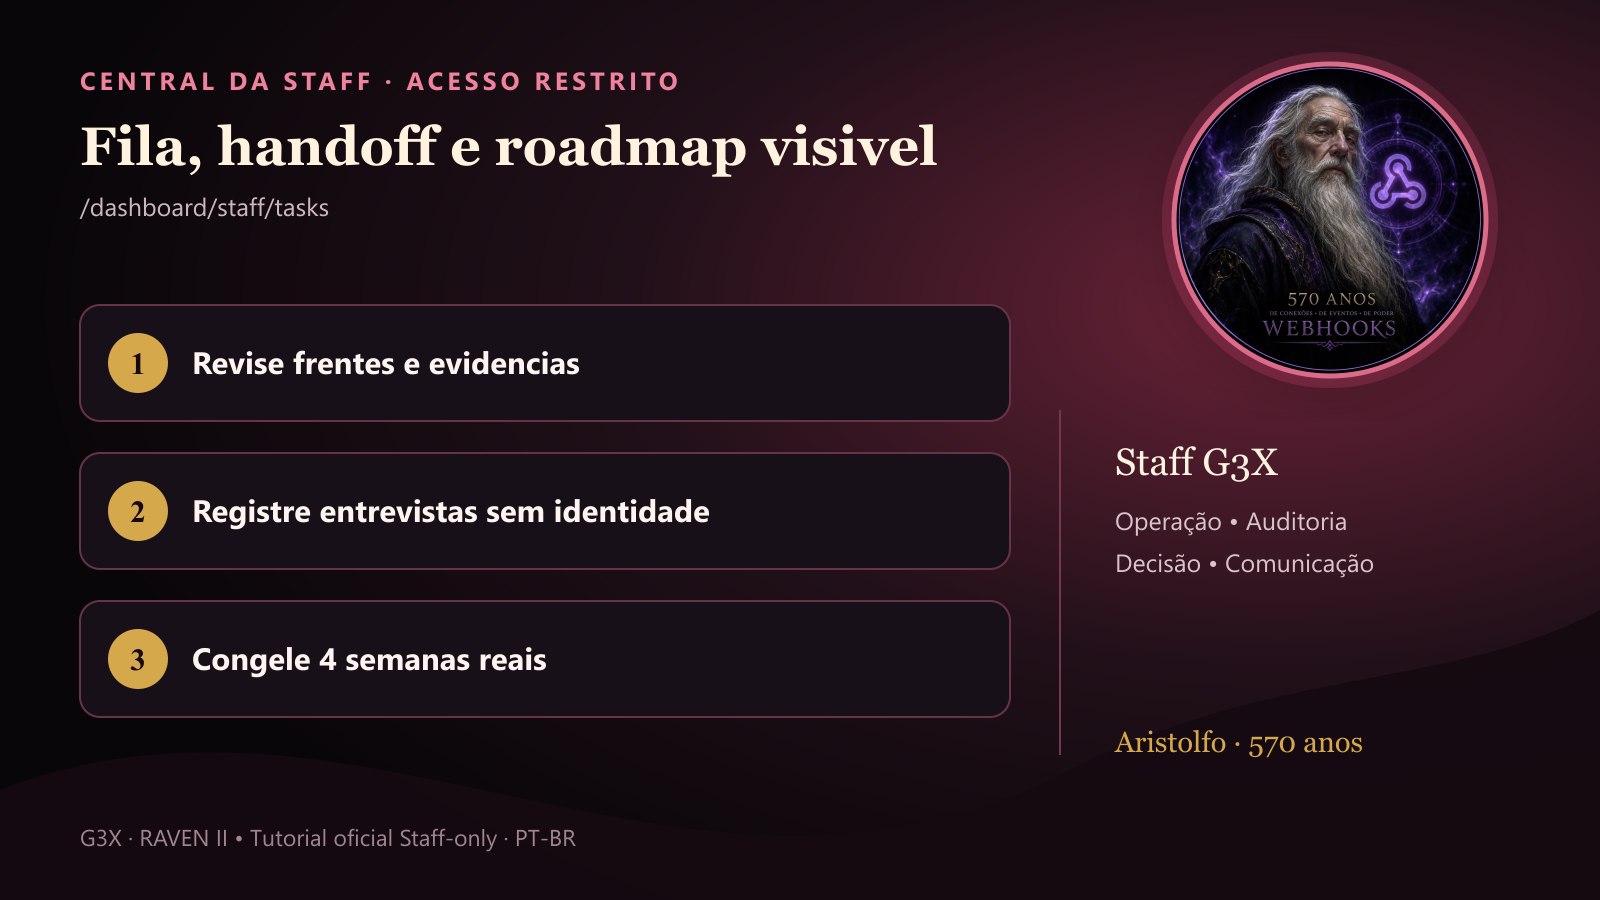
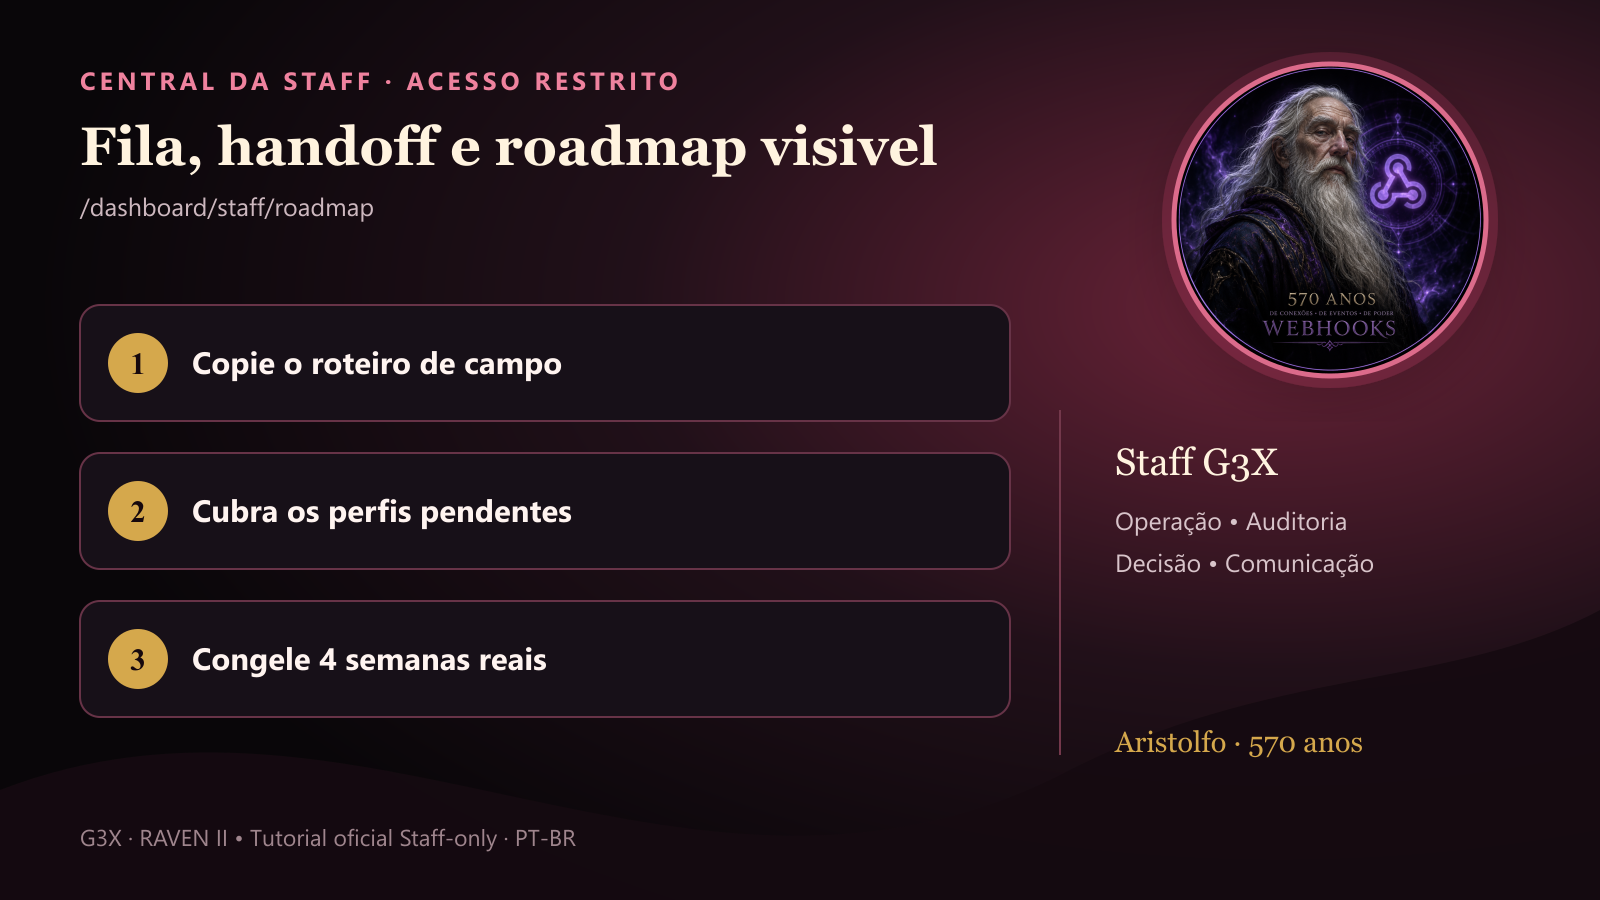
feat: prepare Front 0 field campaign

Changed region(s): [[0.125, 0.3733, 0.375, 0.4356], [0.125, 0.56, 0.4375, 0.5911], [0.1562, 0.2178, 0.25, 0.2489]]

diff --git a/apps/web/src/app/dashboard/staff/roadmap/page.tsx b/apps/web/src/app/dashboard/staff/roadmap/page.tsx
@@ -51,6 +51,24 @@ const absenceOptions: Array<[ProductValidationAbsenceVisibility, string]> = [
 const labelFor = (profile: ProductValidationInterviewProfile) =>
   profiles.find(([value]) => value === profile)?.[1] ?? profile;
 
+const fieldQuestions = [
+  "Hoje, o que mais faz a Staff precisar cobrar você manualmente?",
+  "Quais canais você realmente acompanha para compromissos da guilda?",
+  "Como uma ausência deveria aparecer: pública, somente Staff, anônima ou dependendo do motivo?",
+  "Responder RSVP no ERP evitaria alguma cobrança real? Qual etapa mudaria?",
+  "Qual é a menor mudança que pouparia tempo ou evitaria confusão nesta rotina?",
+];
+
+const fieldWeeks = [
+  { start: "2026-07-27", end: "2026-08-03" },
+  { start: "2026-08-03", end: "2026-08-10" },
+  { start: "2026-08-10", end: "2026-08-17" },
+  { start: "2026-08-17", end: "2026-08-24" },
+];
+
+const dateLabel = (value: string) =>
+  new Date(`${value}T12:00:00.000Z`).toLocaleDateString("pt-BR", { timeZone: "UTC" });
+
 export default function StaffRoadmapPage() {
   const workspace = useProductValidation();
   const createInterview = useCreateProductValidationInterview();
@@ -66,6 +84,46 @@ export default function StaffRoadmapPage() {
   const [staffMinutes, setStaffMinutes] = useState("");
   const [weekNote, setWeekNote] = useState("");
   const gate = workspace.data?.gate;
+  const capturedWeekStarts = new Set(
+    workspace.data?.weeks.map((week) => week.weekStart.slice(0, 10)) ?? [],
+  );
+  const now = Date.now();
+  const missingStaffProfiles = (gate?.requiredStaffProfiles ?? []).filter(
+    (required) => !gate?.staffProfilesCovered.includes(required),
+  );
+  const missingPlayerProfiles = ([
+    "PLAYER_VETERAN",
+    "PLAYER_NEW",
+    "PLAYER_ACTIVE",
+    "PLAYER_LOW_ACTIVITY",
+  ] as ProductValidationInterviewProfile[]).filter(
+    (required) => !gate?.playerProfilesCovered.includes(required),
+  );
+  const nextInterviewProfile = missingStaffProfiles[0]
+    ?? missingPlayerProfiles[0]
+    ?? ((gate?.playerInterviewCount ?? 0) < 5 ? "PLAYER_ACTIVE" : null);
+
+  const copyFieldGuide = async () => {
+    const guide = [
+      "Frente 0 · roteiro de entrevista anonimizada",
+      `Próximo perfil sugerido: ${nextInterviewProfile ? labelFor(nextInterviewProfile) : "cobertura mínima completa"}`,
+      "",
+      ...fieldQuestions.map((question, index) => `${index + 1}. ${question}`),
+      "",
+      "Registro: guarde somente perfil, canais, visibilidade de ausência, impacto do RSVP e uma síntese operacional.",
+      "Não registre nome, nick, trechos de DM ou conteúdo privado de voz.",
+    ].join("\n");
+    try {
+      await navigator.clipboard.writeText(guide);
+      notifyToast({ title: "Roteiro de campo copiado.", tone: "success" });
+    } catch {
+      notifyToast({
+        title: "Nao foi possivel copiar o roteiro.",
+        description: "Revise a permissao da area de transferencia e tente novamente.",
+        tone: "error",
+      });
+    }
+  };
 
   const submitInterview = () => {
     if (!interviewedAt || summary.trim().length < 10 || selectedChannels.length === 0) return;
@@ -147,6 +205,66 @@ export default function StaffRoadmapPage() {
             <p className="text-sm text-muted-foreground">
               RSVP reduz uma cobrança manual real: <strong>{gate?.rsvpValidated ? "confirmado por ao menos uma entrevista" : "ainda não confirmado"}</strong>. O ERP não guarda nome do entrevistado nem conteúdo privado de voz/DM.
             </p>
+          </CardContent>
+        </Card>
+
+        <Card>
+          <CardHeader><CardTitle>Plano de campo · quem ouvir e quando medir</CardTitle></CardHeader>
+          <CardContent className="space-y-5">
+            <div className="grid gap-4 lg:grid-cols-[1.1fr_1.9fr]">
+              <div className="space-y-3 rounded border border-white/10 p-4">
+                <div className="flex flex-wrap items-center justify-between gap-2">
+                  <p className="font-semibold">Próxima entrevista</p>
+                  <Badge tone={nextInterviewProfile ? "gold" : "green"}>
+                    {nextInterviewProfile ? labelFor(nextInterviewProfile) : "Cobertura mínima completa"}
+                  </Badge>
+                </div>
+                <p className="text-sm text-muted-foreground">
+                  Faltam {missingStaffProfiles.length} perfis Staff e {missingPlayerProfiles.length} perfis de player.
+                  {nextInterviewProfile ? " Depois de cobrir os quatro perfis de player, complete pelo menos cinco entrevistas." : " O gate ainda depende das semanas e da validação real do RSVP."}
+                </p>
+                <Button onClick={copyFieldGuide}>Copiar roteiro de entrevista</Button>
+              </div>
+
+              <div className="rounded border border-white/10 p-4">
+                <p className="font-semibold">Perguntas canônicas</p>
+                <ol className="mt-3 space-y-2 text-sm text-muted-foreground">
+                  {fieldQuestions.map((question, index) => (
+                    <li key={question}><strong className="text-foreground">{index + 1}.</strong> {question}</li>
+                  ))}
+                </ol>
+                <p className="mt-3 text-xs text-muted-foreground">
+                  Faça a conversa onde a pessoa se sentir confortável. No ERP entra somente a síntese sem identidade.
+                </p>
+              </div>
+            </div>
+
+            <div>
+              <div className="flex flex-wrap items-center justify-between gap-2">
+                <p className="font-semibold">Janela oficial das quatro semanas</p>
+                <span className="text-xs text-muted-foreground">Segunda a segunda · America/Sao_Paulo</span>
+              </div>
+              <div className="mt-3 grid gap-3 md:grid-cols-2 xl:grid-cols-4">
+                {fieldWeeks.map((week, index) => {
+                  const captured = capturedWeekStarts.has(week.start);
+                  const started = now >= new Date(`${week.start}T00:00:00.000-03:00`).getTime();
+                  const ended = now >= new Date(`${week.end}T00:00:00.000-03:00`).getTime();
+                  const status = captured ? "CONGELADA" : ended ? "PRONTA" : started ? "COLETANDO" : "AGUARDANDO";
+                  return (
+                    <div key={week.start} className="rounded border border-white/10 p-3">
+                      <div className="flex items-center justify-between gap-2">
+                        <span className="text-sm font-semibold">Semana {index + 1}</span>
+                        <Badge tone={captured ? "green" : ended ? "gold" : "blue"}>{status}</Badge>
+                      </div>
+                      <p className="mt-2 text-sm">{dateLabel(week.start)} → {dateLabel(week.end)}</p>
+                      {ended && !captured ? (
+                        <Button className="mt-3" onClick={() => setWeekStart(week.start)}>Usar no formulário</Button>
+                      ) : null}
+                    </div>
+                  );
+                })}
+              </div>
+            </div>
           </CardContent>
         </Card>
 

diff --git a/scripts/staff-forum-content.js b/scripts/staff-forum-content.js
@@ -394,16 +394,18 @@ O painel usa o check-in mais recente e 14 dias de acoes auditadas para mostrar a
 Responsabilidade nao concede permissao, alerta nao escala sozinho e nenhum check-in vira avaliacao disciplinar.`,
   },
   {
-    slug: 'staff-fila-handoff-roadmap', title: '24 · Fila, handoff e roadmap visivel', tag: 'routine', route: '/dashboard/staff/tasks',
-    visual: ['Revise frentes e evidencias', 'Registre entrevistas sem identidade', 'Congele 4 semanas reais'],
+    slug: 'staff-fila-handoff-roadmap', title: '24 · Fila, handoff e roadmap visivel', tag: 'routine', route: '/dashboard/staff/roadmap',
+    visual: ['Copie o roteiro de campo', 'Cubra os perfis pendentes', 'Congele 4 semanas reais'],
     body: `## Trabalho visivel sobrevive ao logout do lider
 Em [Fila Staff](${route('/dashboard/staff/tasks')}) registre area, prioridade, dono, substituto, prazo, estado e link direto para o objeto. Sugestoes do briefing, pauta e sinais nao criam nada sozinhas: revise e confirme a conversao.
 
 No handoff, escreva contexto final e proximo passo antes de transferir o dono. A trilha fica auditada e a chave da origem impede duplicar a mesma sugestao.
 
-Use o [Roadmap visivel](${route('/dashboard/staff/roadmap')}) para validar frentes, estado e evidencias. A Frente 0 so libera decisao depois dos tres perfis Staff, pelo menos cinco entrevistas cobrindo veterano/novato/ativo/baixa atividade, quatro semanas consecutivas congeladas e confirmacao de que RSVP reduz cobranca manual real.
+Use o [Roadmap visivel](${route('/dashboard/staff/roadmap')}) para validar frentes, estado e evidencias. O plano de campo mostra o proximo perfil pendente, oferece um roteiro canonico copiavel e organiza a medicao de 27/07 a 24/08 em quatro semanas de segunda a segunda. Quando uma semana encerrar, use o atalho **Usar no formulario** e declare somente presenca esperada, quando conhecida, e minutos de cobranca.
 
-Entrevista nao guarda nome nem conteudo privado de voz/DM: registre apenas perfil, canais acompanhados, visibilidade aceitavel de ausencia e sintese operacional. Na semana encerrada iniciada na segunda-feira, o ERP calcula eventos, presenca, no-shows, recruits com atividade e tarefas sem substituto; informe presenca esperada, quando conhecida, e minutos de cobranca. IMPLEMENTADO significa codigo local validado; producao e Centrais live continuam pendentes ate o protocolo completo.`,
+A Frente 0 so libera decisao depois dos tres perfis Staff, pelo menos cinco entrevistas cobrindo veterano/novato/ativo/baixa atividade, quatro semanas consecutivas congeladas e confirmacao de que RSVP reduz cobranca manual real.
+
+Entrevista nao guarda nome nem conteudo privado de voz/DM: registre apenas perfil, canais acompanhados, visibilidade aceitavel de ausencia e sintese operacional. Na semana encerrada iniciada na segunda-feira, o ERP calcula eventos, presenca, no-shows, recruits com atividade e tarefas sem substituto. Evidencia real, sem fanfic de dashboard.`,
   },
   {
     slug: 'staff-cobertura-areas', title: '25 · Areas, plantao e cobertura', tag: 'routine', route: '/dashboard/staff/coverage',

diff --git a/docs/discord-staff-update-2026-07-21-roadmap-field-campaign.md b/docs/discord-staff-update-2026-07-21-roadmap-field-campaign.md
@@ -1,0 +1,11 @@
+# Frente 0 pronta para coleta real
+
+**PT-BR**
+
+- O roadmap Staff agora aponta qual perfil deve ser entrevistado em seguida e mostra quantos perfis Staff e player ainda faltam.
+- Um clique copia as cinco perguntas canonicas da entrevista, junto das regras para nao registrar nome, nick, DM ou conteudo privado de voz.
+- A janela oficial de medicao ficou organizada em quatro semanas, de 27/07 a 24/08, sempre de segunda a segunda.
+- Depois que uma semana encerrar, `Usar no formulario` preenche a data correta para a Staff congelar as metricas automaticas e declarar apenas presenca esperada e minutos de cobranca.
+- O gate continua honesto: entrevista e baseline so contam quando forem registrados com evidencia real. O ERP nao inventa validacao para deixar card verde.
+
+**Aristolfo, 570 anos de webhook:** o roteiro esta pronto; agora so falta entrevistar humanos, a dependencia mais instavel do sistema.

diff --git a/WIKI.md b/WIKI.md
@@ -112,7 +112,7 @@ Fonte detalhada: `docs/DISCORD_WEBHOOK_VOICE.md`.
 - A tela Staff `/dashboard/staff/discord-templates` consome `GET /operations/staff/discord-templates` e mostra preview real sanitizado de webhooks para anuncios, leiloes, interesses, drops, presenca, requests e review Staff. O payload inclui `username`, `avatar_url`, `content`, `embeds` e `allowed_mentions`, nunca a URL do webhook. Templates player-facing exibem PT-BR e EN; Staff-only fica PT-BR.
 - A tela Staff `/dashboard/staff/discord-webhooks` consome `GET /operations/staff/discord-webhooks` e lista entregas persistidas em `DiscordWebhookDelivery`: alvo logico, canal, action, target, status, tentativas, erro resumido e payload sanitizado. `POST /operations/staff/discord-webhooks/:deliveryId/retry` reenvia apenas entregas `FAILED` e `retryable`, buscando a URL pelo `webhookKey` no servidor sem expor segredo.
 - O forum Discord `📚・central-do-player` fica na categoria `1431340101052530829` e possui 20 tutoriais oficiais de player em PT-BR/EN, imagens 1600x900, rotas clicaveis e respostas abertas; players respondem nas threads, enquanto a criacao de novos posts fica com Staff/bots administrativos. O conteudo canonico fica em `scripts/player-forum-content.js`; `npm.cmd run discord:player-forum:assets` regenera as imagens e `npm.cmd run discord:player-forum` cria ou sincroniza forum, tags e posts sem duplicar. O publicador usa `DISCORD_BOT_TOKEN` e `DISCORD_GUILD_ID`, limita a operacao ao forum nomeado dentro da categoria configurada e nao remove canais ou posts extras.
-- O forum Discord Staff-only `🛡️・central-da-staff` fica na categoria `1528829674166423552` e possui 30 tutoriais internos em PT-BR, imagens 1600x900, 11 tags, indice clicavel e threads para duvidas. `@everyone` e bloqueado explicitamente, e o cargo de `DISCORD_STAFF_ROLE_ID` recebe acesso. O conteudo canonico fica em `scripts/staff-forum-content.js`; `npm.cmd run discord:staff-forum:assets` regenera imagens e `npm.cmd run discord:staff-forum` cria ou sincroniza forum, tags, permissoes e posts sem duplicar nem remover conteudo extra.
+- O forum Discord Staff-only `🛡️・central-da-staff` fica na categoria `1528829674166423552` e possui 30 tutoriais internos em PT-BR, imagens 1600x900, 12 tags, indice clicavel e threads para duvidas. `@everyone` e bloqueado explicitamente, e o cargo de `DISCORD_STAFF_ROLE_ID` recebe acesso. O conteudo canonico fica em `scripts/staff-forum-content.js`; `npm.cmd run discord:staff-forum:assets` regenera imagens e `npm.cmd run discord:staff-forum` cria ou sincroniza forum, tags, permissoes e posts sem duplicar nem remover conteudo extra.
 - O protocolo Codex exige classificar o impacto de toda implementacao ou alteracao de fluxo como player, Staff, ambos ou sem impacto de tutorial. Fluxo visivel alterado deve atualizar o conteudo canonico e os assets da Central correspondente no mesmo trabalho; o `--dry-run` ocorre antes do commit e a sincronizacao live somente depois da verificacao em producao, antes do changelog final.
 - Nunca documentar URLs completas de webhook.
 
@@ -218,7 +218,7 @@ Automacao ativa:
 - Pulso voluntario usa `/dashboard/pulse` e `/dashboard/staff/pulse` sobre `/guild-pulse`. `GuildPulseResponse` guarda cinco notas sem `playerId`; `GuildPulseParticipation` guarda apenas recibo `SUBMITTED/SKIPPED` separado e sem chave para resposta. API Staff bloqueia medias e textos abaixo de `minGroupSize` (padrao 5, minimo 3) e nunca retorna score individual. Texto aberto opcional nasce pendente, exige moderacao, expira em 1-90 dias e e removido diariamente pelo cron `cleanupExpiredPulseText`; nota anonima permanece para tendencia agregada. Envio/skip nao geram audit com ator; configuracao/status/moderacao geram. Pular nao possui consequencia e pulso nao afeta loot, DKP, acesso ou disciplina. Politica: `docs/GUILD_PULSE_DATA_POLICY.md`.
 - Saude explicavel usa `GET /guild-health/signals` e `/dashboard/staff/guild-health`. Queda de participacao compara ultimos 15 dias com 15 anteriores somente com pelo menos dois eventos em cada janela; onboarding parado usa 14 dias/prazo; confirmacoes revertidas sao transicoes `CONFIRMED` para outro status reconstruidas do audit; retorno usa `PLAYER_REACTIVATED` em 30 dias; coorte isolada agrega classe com pelo menos tres ativos e menos de 25% com presenca em 30 dias. Cada card expoe fatos, janela e recomendacao de conversa. Nao existe score unico, mutacao, bloqueio, remocao ou efeito em loot.
 - Saude da lideranca usa `/leadership-health` e `/dashboard/staff/leadership-health`. Cada Staff registra carga 1-5, disponibilidade para plantao e contexto por `LeadershipArea` (eventos, loot, recrutamento, Discord, deploy, tesouraria e cuidado com players). Painel usa ultimo check-in por pessoa/area e acoes auditadas dos ultimos 14 dias para mostrar cobertura sem substituto e concentracao >=60% com amostra minima de cinco. Alertas recomendam delegar/reduzir/pausar; nao alteram permissao, nao escalam automaticamente e nao pedem mais atividade.
-- Fila Staff usa `/staff-tasks` e `/dashboard/staff/tasks`. `StaffTask` persiste area, prioridade, status, dono, substituto, prazo, deep link e fonte; `sourceKey` unico evita duplicar conversao. Briefing matinal, pauta nao resolvida e sinais de saude sao sugestoes read-only e so viram tarefa por `POST` confirmado (`automaticTaskCreation=false`). `StaffTaskHandoff` exige contexto final/proximo passo e pode transferir dono em transacao; criacao, mudanca e handoff sao auditados. `/dashboard/staff/roadmap` apresenta todas as frentes da release 2026-07-21, seus links de evidencia e a coleta operacional ainda pendente. O mesmo painel consome `/product-validation`: entrevistas anonimizadas registram perfil/canais/visibilidade de ausencia/sintese sem identidade ou conteudo privado; semanas encerradas congelam metricas automaticas de evento, presenca, no-show, recruit ativo e tarefa sem substituto, separadas de presenca esperada/minutos de cobranca declarados. O gate exige tres perfis Staff, ao menos cinco players cobrindo veterano/novato/ativo/baixa atividade, quatro semanas consecutivas iniciadas na segunda-feira em `America/Sao_Paulo` e evidencia de reducao de cobranca por RSVP; todas as escritas sao Staff-only e auditadas.
+- Fila Staff usa `/staff-tasks` e `/dashboard/staff/tasks`. `StaffTask` persiste area, prioridade, status, dono, substituto, prazo, deep link e fonte; `sourceKey` unico evita duplicar conversao. Briefing matinal, pauta nao resolvida e sinais de saude sao sugestoes read-only e so viram tarefa por `POST` confirmado (`automaticTaskCreation=false`). `StaffTaskHandoff` exige contexto final/proximo passo e pode transferir dono em transacao; criacao, mudanca e handoff sao auditados. `/dashboard/staff/roadmap` apresenta todas as frentes da release 2026-07-21, seus links de evidencia e a coleta operacional ainda pendente. O plano de campo aponta o proximo perfil de entrevista, oferece roteiro canonico copiavel e organiza quatro semanas oficiais de 27/07 a 24/08, liberando o atalho de captura somente depois do encerramento. O mesmo painel consome `/product-validation`: entrevistas anonimizadas registram perfil/canais/visibilidade de ausencia/sintese sem identidade ou conteudo privado; semanas encerradas congelam metricas automaticas de evento, presenca, no-show, recruit ativo e tarefa sem substituto, separadas de presenca esperada/minutos de cobranca declarados. O gate exige tres perfis Staff, ao menos cinco players cobrindo veterano/novato/ativo/baixa atividade, quatro semanas consecutivas iniciadas na segunda-feira em `America/Sao_Paulo` e evidencia de reducao de cobranca por RSVP; todas as escritas sao Staff-only e auditadas.
 - Cobertura Staff usa `/staff-coverage` e `/dashboard/staff/coverage`. `StaffAreaCoverage` separa primario, backup, janela local e timezone por `LeadershipArea`; `StaffAvailabilityPeriod` guarda indisponibilidade declarada pelo proprio membro. O responsavel efetivo muda para o backup somente durante declaracao vigente, nunca por silencio. Configuracao, declaracao e remocao sao auditadas e nao alteram roles ou permissoes.
 - Automacao Staff usa `/staff-automations` e `/dashboard/staff/automations`. Somente agrupamentos de `StaffTask` com mesma origem/area e ao menos tres conclusoes em 90 dias viram proposta. Dry-run cria `StaffAutomationRule` desabilitada; ativacao exige confirmacao separada. O executor so cria `StaffTask` sem dono, respeitando frequencia, limite diario e `StaffAutomationRun.dedupKey`; kill switch desliga a regra e toda etapa e auditada. Loot, remocao de player e politica social nao possuem acao executavel nesse dominio.
 - Playbooks usam `/playbooks`, `/dashboard/staff/playbooks` e `/dashboard/playbook`. `GuildPlaybookVersion` e imutavel e pode ser anexada exatamente a um `Event` ou `WarRoomOperation`. Brief/objectivo sao PT-BR/EN; notas Staff ficam separadas; `PlaybookRoleInstruction` entrega ao player escalado somente o proprio papel. `PlaybookInstructionReceipt` confirma leitura sem alterar RSVP, presenca ou DKP. Sinais do after-action viram candidatos; `GuildPlaybookLesson` exige `KEEP/TEST/DISCARD`, dono e revisao. Promover `KEEP/TEST` cria nova versao com origem na operacao/licao.
@@ -422,6 +422,7 @@ npm.cmd run discord:configure-webhooks
 
 | Data | Mudanca | Referencia |
 | --- | --- | --- |
+| 2026-07-21 | Frente 0 ganhou plano de campo com proximo perfil, roteiro copiavel e calendario acionavel das quatro semanas oficiais, sem preencher evidencia por inferencia. | produto/validacao/Staff |
 | 2026-07-21 | Publicadores das Centrais passaram a recarregar o forum depois de sincronizar tags, evitando falso `tag not found` quando uma tag canonica e criada no mesmo envio. | Discord/tutoriais/confiabilidade |
 | 2026-07-21 | Lockfile recebeu patches sem quebra de major para dependencias transitivas de Next/Discord e utilitarios; auditoria de producao caiu de 10 para 7 altas sem afrouxar o baseline do CI. | seguranca/dependencias/CI |
 | 2026-07-21 | Reenvio duplicado de Codex ja marcado como enviado foi bloqueado; falha da cobranca Web imediata agora fica auditada sem corromper o estado enviado. | Codex/cobrancas/confiabilidade |

diff --git a/docs/RAVEN2_GUILD_OPERATING_SYSTEM_ROADMAP_2026_07.md b/docs/RAVEN2_GUILD_OPERATING_SYSTEM_ROADMAP_2026_07.md
@@ -300,8 +300,9 @@ reavaliadas com a Staff e amostra de players antes de implementar.
 Objetivo: evitar construir uma solucao correta para a guilda errada.
 
 Estado em 2026-07-21: `parcial`; pesquisa, material e fluxo Staff de coleta
-implementados no codigo local. Entrevistas e quatro semanas de baseline G3X
-continuam pendentes porque exigem evidencia real, nao preenchimento ficticio.
+estao em producao. O plano de campo organiza roteiro, cobertura pendente e as
+quatro semanas oficiais de 27/07 a 24/08. Entrevistas e baseline G3X continuam
+pendentes porque exigem evidencia real, nao preenchimento ficticio.
 
 Instrumentacao disponivel no codigo local:
 

diff --git a/docs/staff-guide-current.md b/docs/staff-guide-current.md
@@ -249,7 +249,7 @@ Em `/dashboard/staff/playbooks`, publique objetivo/brief PT-BR e EN, notas inter
 
 Em `/dashboard/communications`, cada membro controla canais por categoria, quiet hours/timezone, digest e teste. O cron entrega resumo diario/semanal fora do silencio, agrupado pelo objeto canonico. Os comandos Discord `/erp-rsvp`, `/erp-ausencia`, `/erp-instrucao` e `/erp-regra` resolvem a conta vinculada e chamam os mesmos servicos/permissoes da Web; a resposta confirma o estado e indica a rota de revisao. O site continua sendo a fonte de verdade.
 
-Em `/dashboard/staff/roadmap`, a Staff ve todas as frentes do Guild Operating System, estado e links de evidencia de forma organizada. Na Frente 0, o gate mostra cobertura dos tres perfis Staff, minimo de cinco entrevistas cobrindo veterano/novato/ativo/baixa atividade, quatro semanas consecutivas e confirmacao de que RSVP reduz cobranca manual real. Registre entrevistas sem nome ou conteudo privado de voz/DM; informe perfil, canais acompanhados, visibilidade aceitavel para ausencia e uma sintese operacional. Ao congelar uma semana ja encerrada iniciada na segunda-feira, o ERP calcula eventos criados, presenca real, no-shows, recruits com atividade e tarefas sem substituto; a Staff declara apenas presenca esperada, quando conhecida, e minutos gastos cobrando confirmacao. Uma semana congelada nao pode ser regravada. O selo implementado descreve codigo local validado; producao e tutoriais live so mudam depois do protocolo completo.
+Em `/dashboard/staff/roadmap`, a Staff ve todas as frentes do Guild Operating System, estado e links de evidencia de forma organizada. Na Frente 0, o gate mostra cobertura dos tres perfis Staff, minimo de cinco entrevistas cobrindo veterano/novato/ativo/baixa atividade, quatro semanas consecutivas e confirmacao de que RSVP reduz cobranca manual real. O plano de campo aponta o proximo perfil pendente, copia as cinco perguntas canonicas e apresenta a janela oficial de 27/07 a 24/08; depois do encerramento de cada semana, `Usar no formulario` preenche a segunda-feira correta. Registre entrevistas sem nome ou conteudo privado de voz/DM; informe perfil, canais acompanhados, visibilidade aceitavel para ausencia e uma sintese operacional. Ao congelar a semana, o ERP calcula eventos criados, presenca real, no-shows, recruits com atividade e tarefas sem substituto; a Staff declara apenas presenca esperada, quando conhecida, e minutos gastos cobrando confirmacao. Uma semana congelada nao pode ser regravada.
 
 ## 13. Discord e webhooks
 